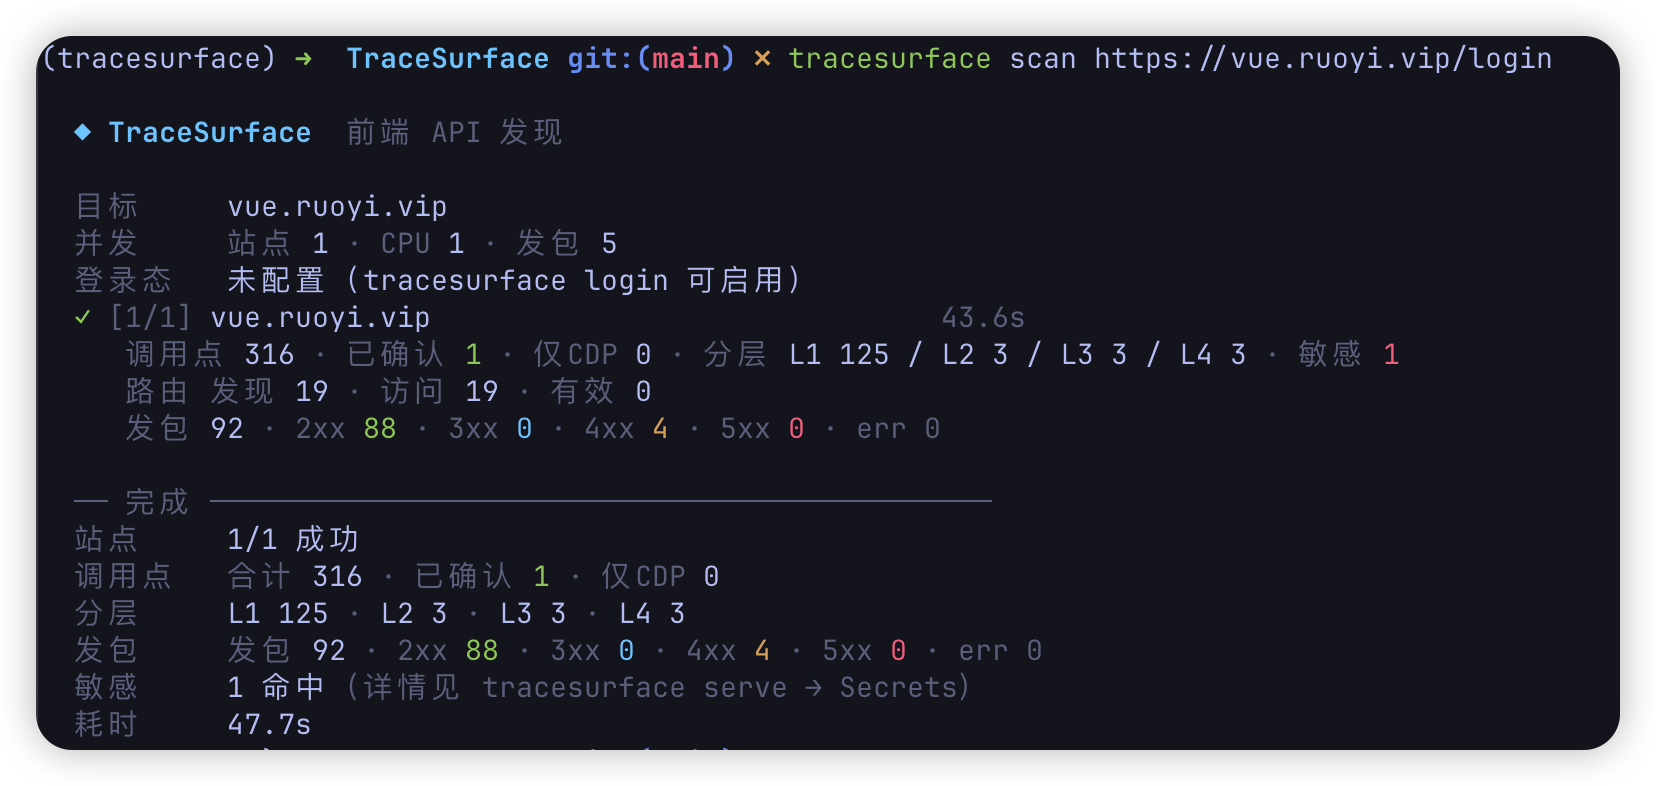
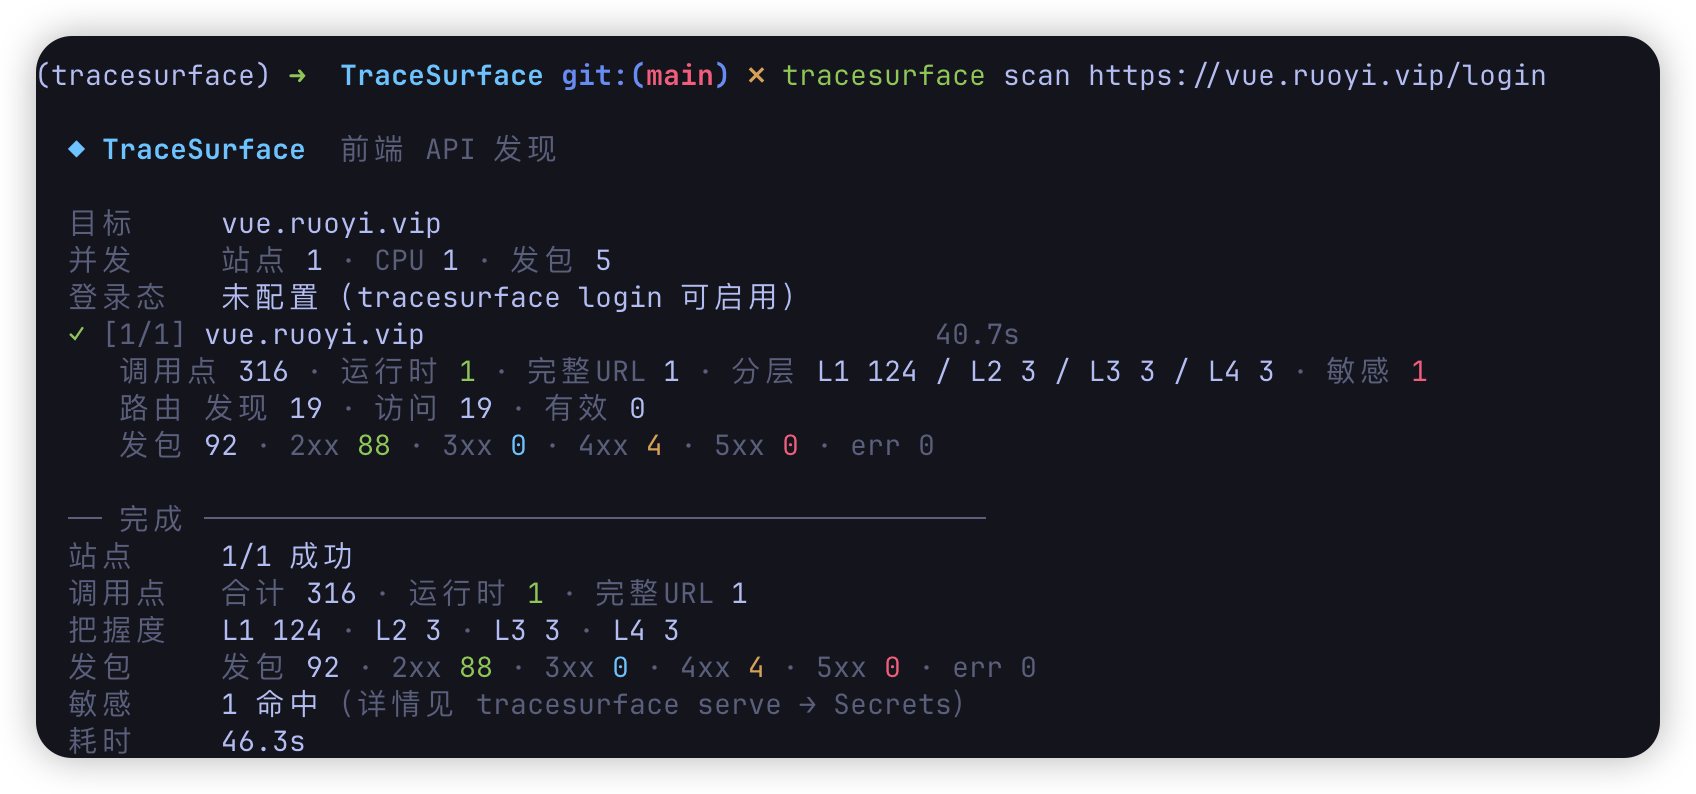
Update README for the unified evidence grade
Refresh the RuoYi case numbers and screenshots from a current scan,
and document runtime / full-url / L1–L4 / no-url instead of Confirmed + L1 Full.

diff --git a/README.en.md b/README.en.md
@@ -15,7 +15,7 @@
 
 TraceSurface is built for penetration testing, security assessment, and API inventory. Starting from one URL, it traces runtime traffic in a real browser while parsing JavaScript ASTs across entry scripts, lazy chunks, and micro-frontends. Initiator coordinates pin real requests back to source call sites, recovering base URLs and complete endpoints. TraceSurface then strips browser credentials and replays those requests to expose missing or weak authorization.
 
-**Core principle: runtime requests confirm; static analysis expands. Every API carries evidence, and every inference tier has a reason.**
+**Core principle: runtime requests provide evidence; static analysis expands. Every API carries evidence, and every grade has a reason.**
 
 ## Case Study: Scanning a Login Page
 
@@ -34,15 +34,15 @@ The page triggers only `GET /prod-api/captchaImage`, but that single request pro
 | Metric | Result |
 | --- | --- |
 | AST call sites | 316 (before dedup) |
-| Recovered APIs | 135 (1 confirmed, 0 CDP-only, L1 125 · L2 3 · L3 3 · L4 3) |
+| Recovered APIs | 135 (runtime 1 · full-url 1 · L1 124 · L2 3 · L3 3 · L4 3) |
 | Frontend routes | 19 found, 19 visited |
 | Requests replayed | 92 (88 2xx, 4 4xx) |
 | Secret matches | 1 |
-| Duration | 47.7s |
+| Duration | 46.3s |
 
 One captcha request becomes 135 APIs. Roles, menus, departments, dictionaries, monitoring, AI conversations — backend endpoints never triggered by the current page emerge directly from the frontend code.
 
-![Report: APIs recovered from the login page](https://raw.githubusercontent.com/pis10/TraceSurface/main/docs/images/report-verification.jpg)
+![Report: unauthenticated replay results](https://raw.githubusercontent.com/pis10/TraceSurface/main/docs/images/report-verification.jpg)
 
 > [!NOTE]
 > 79 of the 88 2xx responses returned `code: 401` in the body.
@@ -52,8 +52,8 @@ One captcha request becomes 135 APIs. Roles, menus, departments, dictionaries, m
 - **Real browser tracing**: captures Fetch/XHR, initiator stacks, scripts, routes, and micro-frontend entries as runtime evidence.
 - **JavaScript AST extraction**: recognizes `fetch`, XHR, axios, custom wrappers, and gateway calls to recover endpoints the page never triggered.
 - **Lazy-chunk traversal**: reconstructs webpack / Vite chunk maps and expands business code without waiting for manual navigation.
-- **Stack-to-AST alignment**: binds CDP initiator coordinates to source call sites, confirming requests and recovering base URLs.
-- **Evidence-driven inference**: grades URL derivations from L1 to L4, with every result traceable to evidence.
+- **Stack-to-AST alignment**: binds CDP initiator coordinates to source call sites, marks them runtime, and recovers base URLs.
+- **Evidence-driven inference**: grades each API as runtime / full-url / L1–L4 / no-url, with every result traceable to evidence.
 - **Credential-free verification**: strips Cookie, Authorization, and other credentials before replaying requests to expose authorization gaps.
 - **Local report**: discovered APIs, unauthenticated replay results, and secret matches in one place.
 
@@ -145,24 +145,27 @@ Every browser request carries its initiating script, line, and column; every AST
 flowchart LR
     A["CDP<br/>real request + initiator stack"] --> C["Coordinate alignment<br/>script URL · line · column"]
     B["tree-sitter<br/>API call site + source span"] --> C
-    C --> D["Confirmed<br/>runtime request ↔ source call site"]
+    C --> D["runtime<br/>runtime request ↔ source call site"]
     D --> E["Evidence-driven<br/>API Surface"]
 ```
 
 1. CDP records the script, line, and column for Fetch/XHR requests.
 2. tree-sitter extracts API call sites and source locations.
-3. A coordinate match marks the request as Confirmed and can provide a base URL for other call sites.
+3. A coordinate match marks the request as runtime and can provide a base URL for other call sites.
 
-### Evidence Tiers
+### Evidence Grades
 
-Confirmed means a runtime request matched a source call site. L1–L4 describe the strength of other URL inferences.
+Every API sits on one evidence axis. runtime is a request the browser actually made; the rest describe where the URL came from and how strongly it is bound.
 
-| Tier | Meaning |
+| Grade | Meaning |
 | --- | --- |
-| **L1 Full** | Unique binding, or a full URL already present in source |
-| **L2 Bound** | Bound through a client relationship or a limited candidate set |
-| **L3 Global** | Uses a base URL already found on the site |
-| **L4 Origin** | Falls back to the target origin |
+| **runtime** | The browser actually issued this request |
+| **full-url** | The source already contains a complete URL |
+| **L1** | The path binds uniquely to a known base |
+| **L2** | Bound through a client relationship or fan-out |
+| **L3** | Uses a base discovered in this scan |
+| **L4** | Falls back to the target origin |
+| **no-url** | A call site exists, but no complete URL can be built |
 
 ## Data Directory
 
